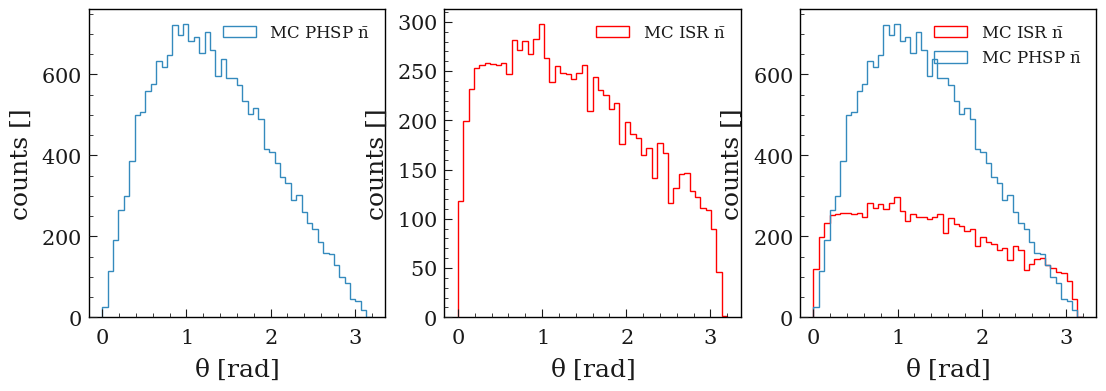
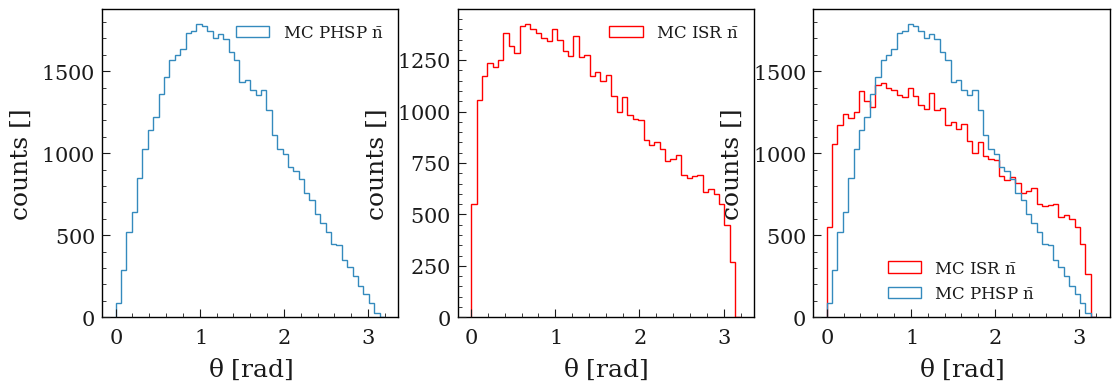
Modifiche sparse

diff --git a/plotter_boost.py b/plotter_boost.py
@@ -34,11 +34,11 @@ print(f"histo_2 is a {type(histo_2)} with {histo_2.sum()} entries")
 fig, axes = plt.subplots(nrows=1, ncols=3, figsize=(13, 4))
 
 #metto un istogramma nel primo panello [0] e uno nel secondo pannello [1]
-plot_hist(histo_2, ax=axes[0], label=r"MC PHSP $\gamma$", color="C0", histtype = "step")
-plot_hist(histo_1, ax=axes[1], label=r"MC ISR $\gamma$", color="red",histtype = "step")
+plot_hist(histo_2, ax=axes[0], label=r"MC PHSP $\bar{n}$", color="C0", histtype = "step")
+plot_hist(histo_1, ax=axes[1], label=r"MC ISR $\bar{n}$", color="red",histtype = "step")
 
 #metto due istogrammi sovrapposti nel terzo panello [2]
-plot_hist([histo_2, histo_1], ax=axes[2], label=[r"MC PHSP $\gamma$",r"MC ISR $\gamma$"], color=["C0","red"], histtype="step")  # <--)
+plot_hist([histo_2, histo_1], ax=axes[2], label=[r"MC PHSP $\bar{n}$",r"MC ISR $\bar{n}$"], color=["C0","red"], histtype="step")  # <--)
 
 for ax in axes:
     ax.set_ylabel("counts []")
